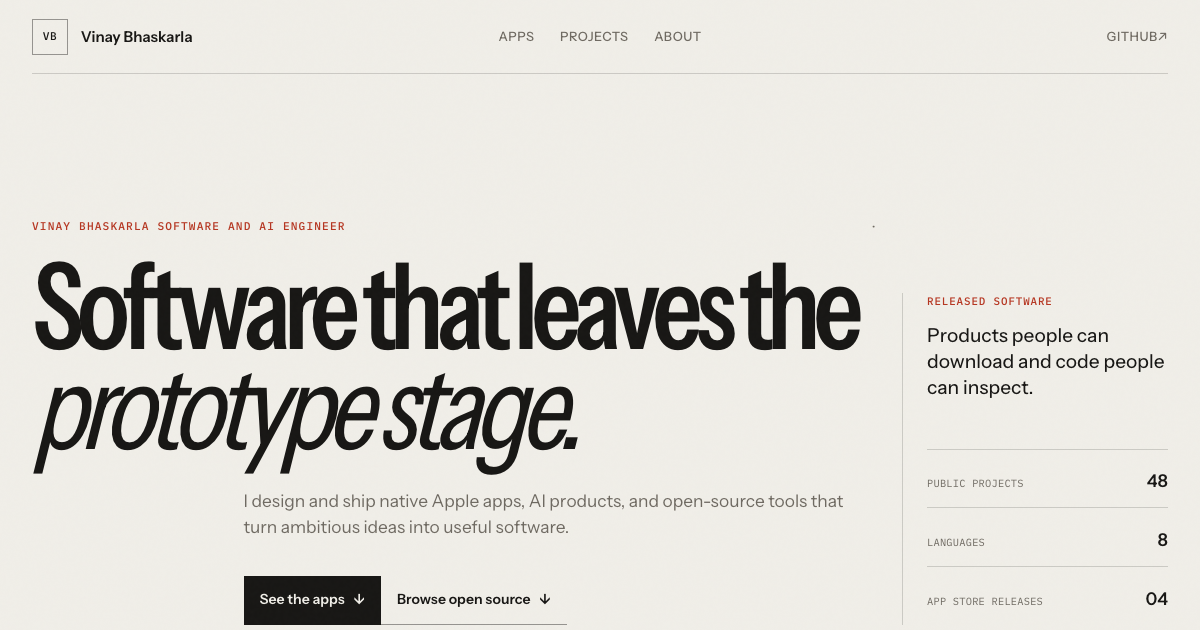
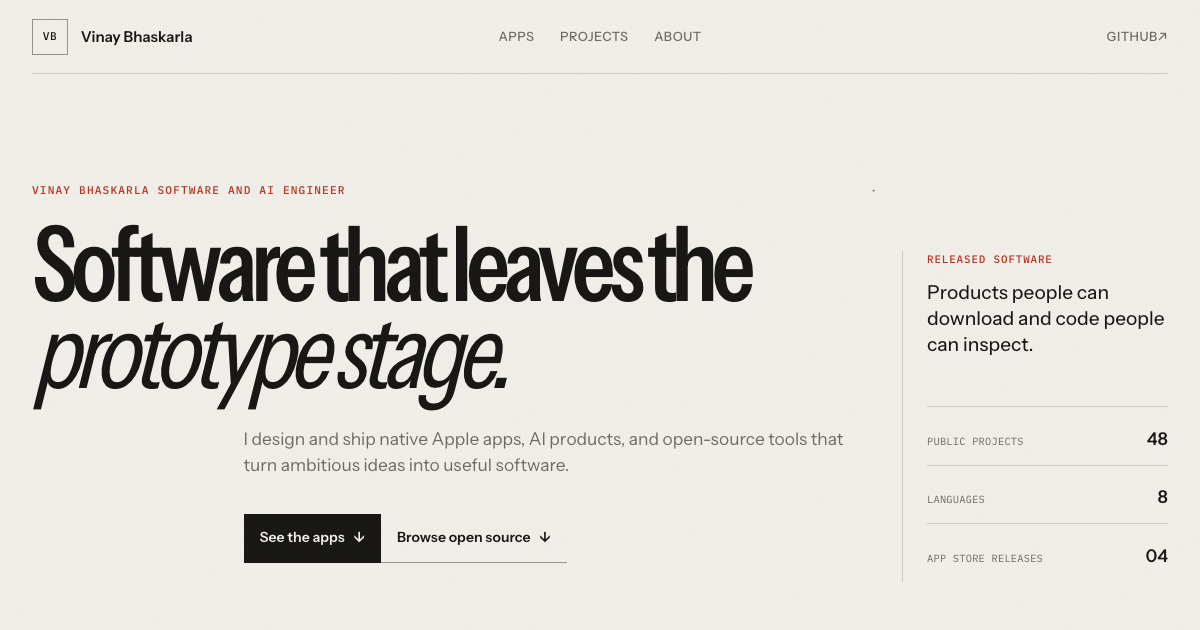
Tighten hero spacing across desktop and tablet

diff --git a/gold.css b/gold.css
@@ -865,6 +865,21 @@ main,
     transition: opacity 800ms var(--ease-out), transform 800ms var(--ease-out);
 }
 
+@media (min-width: 901px) {
+    .hero {
+        min-height: min(780px, calc(100svh - 74px));
+        padding: clamp(6rem, 9vw, 9.5rem) 0 3rem;
+    }
+
+    .hero-copy {
+        align-self: start;
+    }
+
+    .hero h1 {
+        font-size: clamp(4.5rem, 8.7vw, 8.6rem);
+    }
+}
+
 @media (max-width: 1000px) {
     .hero-copy {
         grid-column: 1 / span 8;
@@ -900,6 +915,26 @@ main,
         grid-column: 2 / -1;
         grid-row: 3;
         justify-content: flex-start;
+    }
+}
+
+@media (min-width: 761px) and (max-width: 900px) {
+    .hero {
+        display: block;
+        min-height: auto;
+        padding: 7rem 0 5rem;
+    }
+
+    .hero-panel {
+        max-width: none;
+        margin-top: 5rem;
+        padding: 1.5rem 0 0;
+        border-top: 1px solid var(--line);
+        border-left: 0;
+    }
+
+    .panel-value {
+        max-width: 28ch;
     }
 }
 
